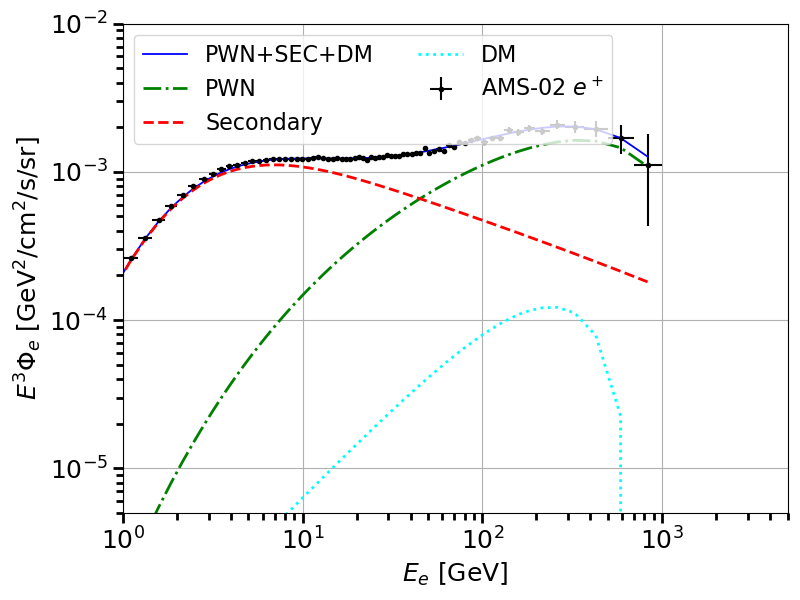
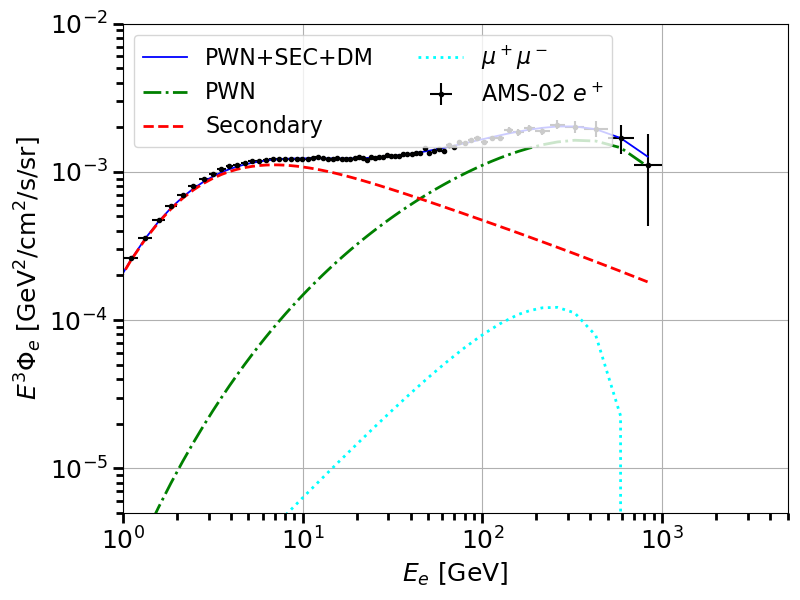
Edited AMS_DM_Upperlimits.py for remote computation.

diff --git a/AMS_DM_deltachisq.py b/AMS_DM_deltachisq.py
@@ -41,7 +41,7 @@ def get_keys_from_value(d, val):
 channel_arr = np.array([7, 10, 13, 17, 20])
 mass_arr = np.logspace(1.0, 4.0, 30) # GeV
 
-directory = {'bbbar_16': 16, 'ee-_7': 7, 'mumu_10': 10, 'tautau_13': 13, 'tt_17': 17, 'WW_20': 20}
+directory = {'bbbar_16': 16, 'ee-_7': 7, 'mumu_10': 10, 'tautau_13': 13, 'tt_17': 17, 'WW_20': 20, 'cc': 14, 'HH': 26}
 
 os.chdir('../Upperlimit data')
 
@@ -74,9 +74,10 @@ def deltachisq(channel, mass_arr):
     outF.close()
 
     # reversing key value pairs in dictionary to label the plots
-    channel_name_dict = {y: x for x, y in directory.items()}
+    new_directory = {r'$b\bar{b}$': 16, r'$e^+e^-$': 7, r'$\mu^+\mu^-$': 10, r'$\tau^+\tau^-$': 13, r'$t^+t^-$': 17, r'$\omega^+\omega^-$': 20, r'c\bar{c}': 14,
+                 r'$h^+h^-$': 26}
 
-    directory = {'bbbar_16': 16, 'ee-_7': 7, 'mumu_10': 10, 'tautau_13': 13, 'tt_17': 17, 'WW_20': 20}
+    channel_name_dict = {y: x for x, y in new_directory.items()}
 
     # Boundary index for the plot
     fig = pl.figure(figsize=(8, 6))
@@ -84,13 +85,12 @@ def deltachisq(channel, mass_arr):
     pl.plot(mass_arr, sig_array, lw=1.3, ls='-', color="blue", label='Channel = ' + channel_name_dict[channel])
     pl.xlabel('$Mass/GeV$', fontsize=18)
     pl.ylabel(r'$\sigma$', fontsize=18)
-    # pl.axis([np.power(10, sigma_v)[lowerbound], np.power(10, sigma_v)[upperbound], chisq[lowerbound], chisq[upperbound]])
+    pl.ylim((0., 5.))
     pl.xticks(fontsize=18)
     pl.yticks(fontsize=18)
     pl.tick_params('both', length=7, width=2, which='major')
     pl.tick_params('both', length=5, width=2, which='minor')
     pl.grid(True)
-    pl.yscale('log')
     pl.xscale('log')
     pl.legend(loc=2, prop={'size': 16}, numpoints=1, scatterpoints=1, ncol=2)
     fig.tight_layout(pad=0.5)

diff --git a/AMS_DM_SimpleFit.py b/AMS_DM_SimpleFit.py
@@ -14,7 +14,10 @@ import matplotlib.pyplot as pl
 
 # Determine the channels we would like to fit
 #e 7, mu 10, tau 13, bb 16, tt 17, WW 20, ZZ 23, gamma 25, h 26
-channel_arr = np.array([7, 16, 10, 13])
+directory = {r'$b\bar{b}$': 16, r'$e^+e^-$': 7, r'$\mu^+\mu^-$': 10, r'$\tau^+\tau^-$': 13, r'$t^+t^-$': 17, r'$\omega^+\omega^-$': 20, r'c\bar{c}': 14,
+                 r'$h^+h^-$': 26}
+channel_name_dict = {y: x for x, y in directory.items()}
+channel_arr = np.array([16, 7, 10, 13, 17, 20, 14, 26])
 
 # Define necessary constants for PWN component
 
@@ -108,7 +111,7 @@ for DMchannel in channel_arr:
     pl.plot(epos, model_vec_tot, lw=1.3, ls='-', color="blue", label='PWN+SEC+DM')
     pl.plot(epos, model_vec_pulsar, lw=2.0, ls='-.', color="green", label='PWN')
     pl.plot(epos, model_vec_sec, lw=2.0, ls='--', color="red", label='Secondary')
-    pl.plot(epos, model_vec_dm, lw=2.0, ls=':', color="cyan", label='DM')
+    pl.plot(epos, model_vec_dm, lw=2.0, ls=':', color="cyan", label=channel_name_dict[DMchannel])
     pl.errorbar(epos, pos, xerr=[x_errordown_pos, x_errorup_pos], yerr=errortot_pos, fmt='.', color="black",
                 label="AMS-02 $e^+$")
     pl.ylabel(r'$E^3 \Phi_e$ [GeV$^2$/cm$^2$/s/sr]', fontsize=18)

diff --git a/AMS_DM_Upperlimits.py b/AMS_DM_Upperlimits.py
@@ -79,7 +79,6 @@ def sigma_vs_chisq(channel, sigma_exp_arr, mass_arr):
 
     # Define an empty array of chisquare values from the the cross section array
     chisquare_arr = np.zeros((len(mass_arr), len(sigma_exp_arr)))
-    upperlim_arr = np.zeros(len(mass_arr))
 
     for j, mass in enumerate(mass_arr):
         for k, sigma_exp in enumerate(sigma_exp_arr):
@@ -115,9 +114,9 @@ def sigma_vs_chisq(channel, sigma_exp_arr, mass_arr):
     os.mkdir("sigma_v vs chisquare")
     os.chdir("sigma_v vs chisquare")
 
-    for j, mass in enumerate(chisquare_arr[i]):
+    for j, mass in enumerate(chisquare_arr):
         outF = open("sigma_v_vs_chisquare_mass=%d.txt" % mass_arr[j], "w")
-        for k, chisq in enumerate(chisquare_arr[i, j]):
+        for k, chisq in enumerate(chisquare_arr[j]):
            outF.write("%.3f %.3e \n"%(sigma_exp_arr[k], chisq))
         outF.close()
     os.chdir("../../")
